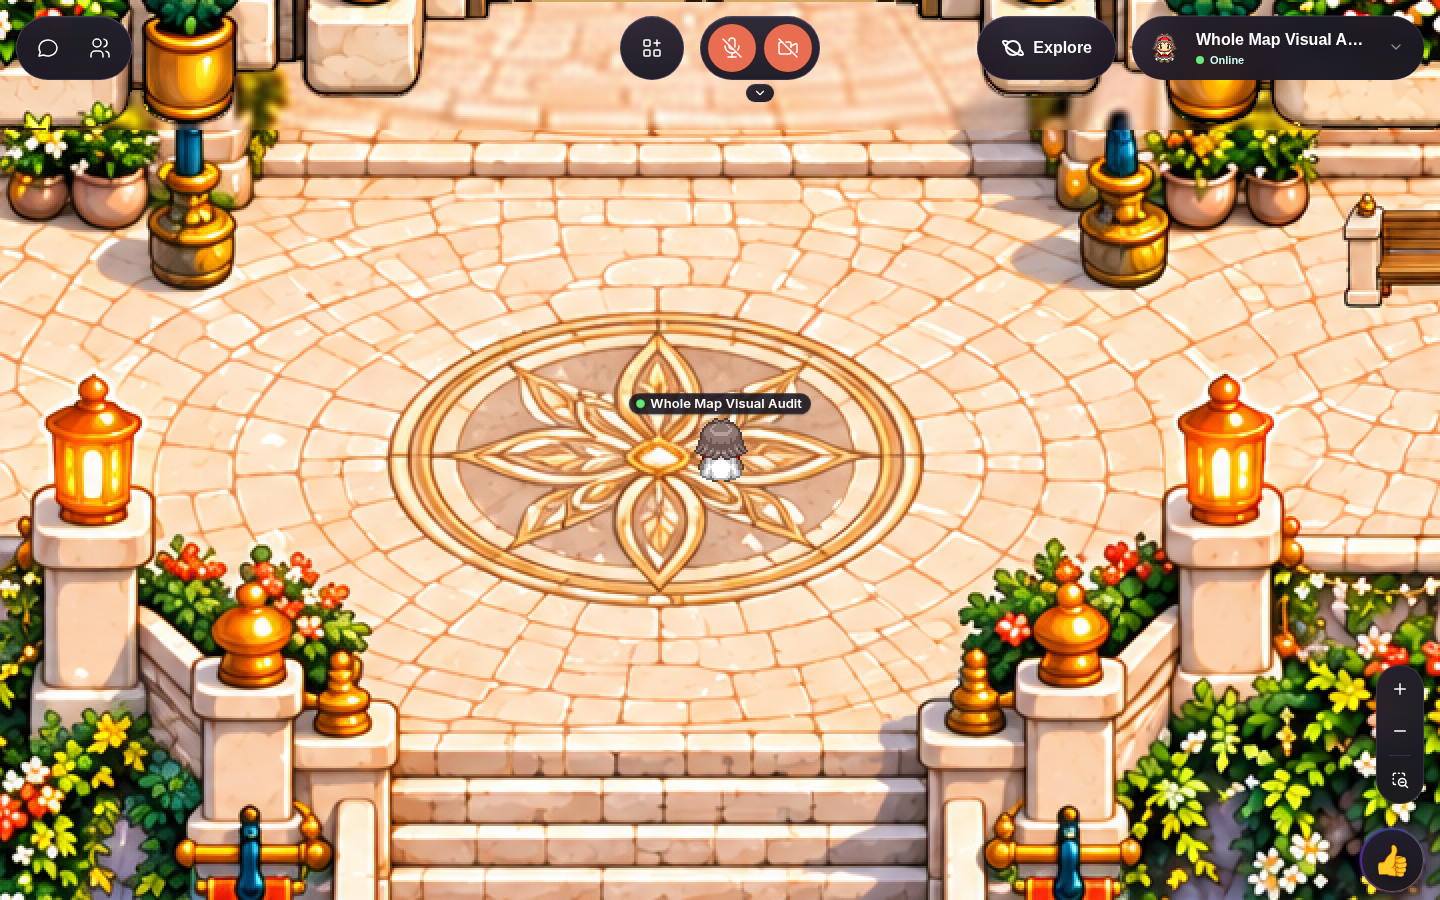
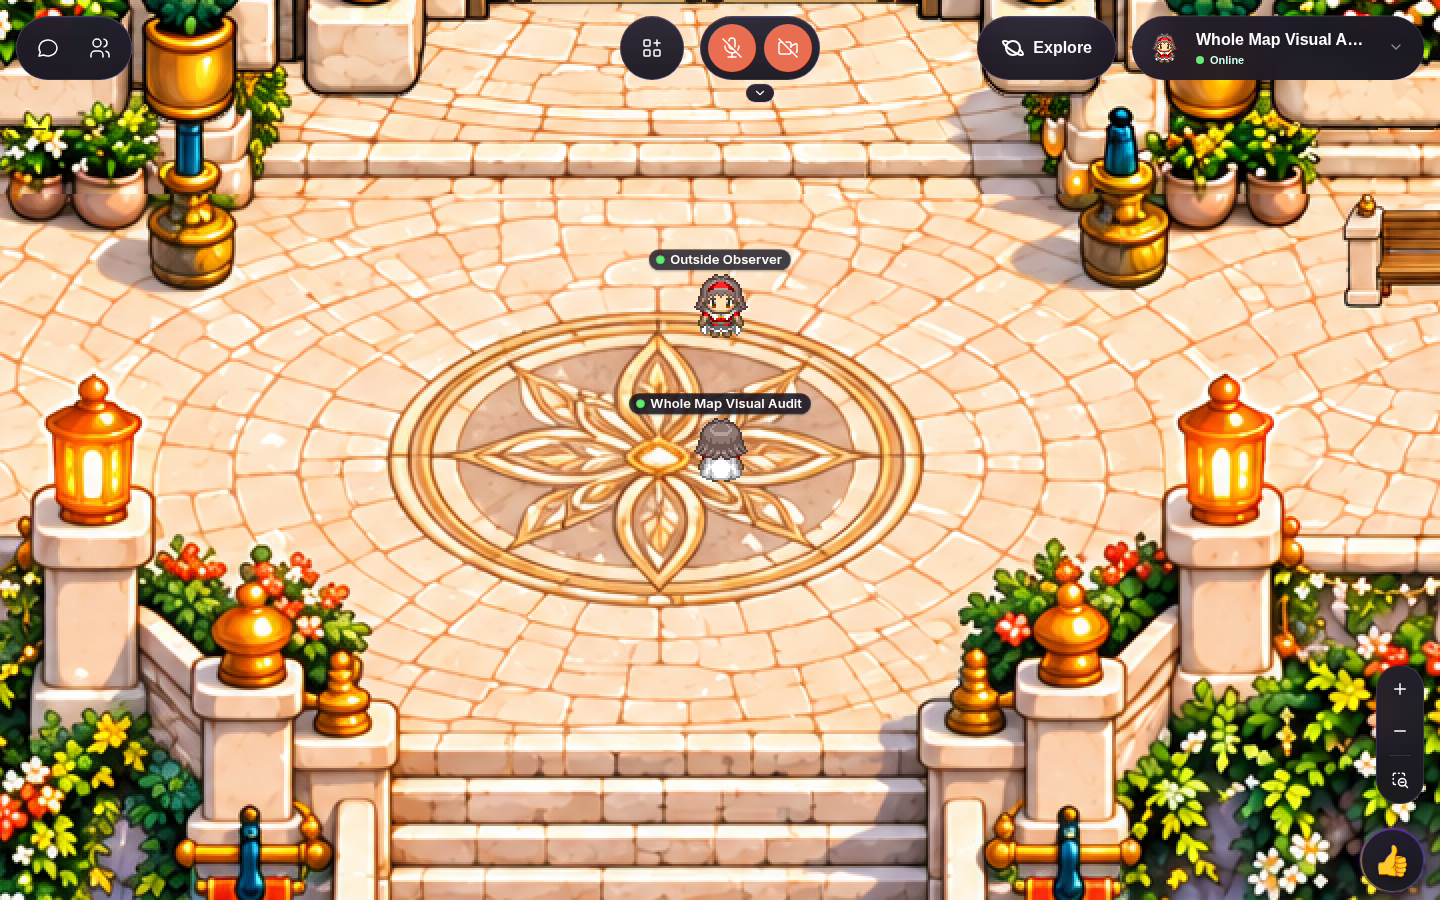
Record final whole-campus gameplay and occupant visibility review

Changed region(s): [[0.0, 0.0, 1.0, 0.2178], [0.4375, 0.2489, 0.5625, 0.3733]]

diff --git a/previews/bawes-sky-campus/source/native-cafe-trial/review.html b/previews/bawes-sky-campus/source/native-cafe-trial/review.html
@@ -1,1 +1,1 @@
-<!doctype html><meta charset="utf-8"><title>Native campus review</title><style>body{font:16px system-ui;background:#101a25;color:#e8eff5;max-width:1440px;margin:32px auto;padding:20px}img{max-width:100%;height:auto}section{margin:40px 0}a{color:#8bd3ff}.pair{display:grid;grid-template-columns:1fr 1fr;gap:12px}h1,h2{font-weight:600}</style><h1>Native outdoor campus candidate</h1><p>Isolated candidate; no deployment. Native 1:1 artwork across the outdoor campus; original interior and gate retained. Gameplay captures use camera zoom 1 and avatar scale 1. Final interaction review is recorded in the accompanying JSON.</p><p><a href="README.md">Details and limitations</a> · <a href="static-checks.json">Static checks</a> · <a href="whole-map/interaction-checks.json">Interaction checks</a></p><h2>Assembled map</h2><a href="gameplay-map-native.png"><img src="gameplay-map-overview.png"></a><p>Click for native-resolution export. Overview is downscaled for review only. Continuous original sky retained; main campus artwork restored at native resolution.</p><section><h2>Cafe</h2><div class="pair"><div>Before<img loading="lazy" src="../../review/whole-map-2026-10-20/cafe.png"></div><div>Candidate<img loading="lazy" src="whole-map/cafe.png"></div></div></section><section><h2>Lower Square</h2><div class="pair"><div>Before<img loading="lazy" src="../../review/whole-map-2026-10-20/lower-square.png"></div><div>Candidate<img loading="lazy" src="whole-map/lower-square.png"></div></div></section><section><h2>Portal Garden</h2><div class="pair"><div>Before<img loading="lazy" src="../../review/whole-map-2026-10-20/portal-garden.png"></div><div>Candidate<img loading="lazy" src="whole-map/portal-garden.png"></div></div></section><section><h2>Central Bridge</h2><div class="pair"><div>Before<img loading="lazy" src="../../review/whole-map-2026-10-20/central-bridge.png"></div><div>Candidate<img loading="lazy" src="whole-map/central-bridge.png"></div></div></section><section><h2>Front Plaza</h2><div class="pair"><div>Before<img loading="lazy" src="../../review/whole-map-2026-10-20/front-plaza.png"></div><div>Candidate<img loading="lazy" src="whole-map/front-plaza.png"></div></div></section><section><h2>West Bridge</h2><div class="pair"><div>Before<img loading="lazy" src="../../review/whole-map-2026-10-20/west-bridge.png"></div><div>Candidate<img loading="lazy" src="whole-map/west-bridge.png"></div></div></section><section><h2>Conservatory</h2><div class="pair"><div>Before<img loading="lazy" src="../../review/whole-map-2026-10-20/conservatory.png"></div><div>Candidate<img loading="lazy" src="whole-map/conservatory.png"></div></div></section><section><h2>East Bridge</h2><div class="pair"><div>Before<img loading="lazy" src="../../review/whole-map-2026-10-20/east-bridge.png"></div><div>Candidate<img loading="lazy" src="whole-map/east-bridge.png"></div></div></section><section><h2>Stage</h2><div class="pair"><div>Before<img loading="lazy" src="../../review/whole-map-2026-10-20/stage.png"></div><div>Candidate<img loading="lazy" src="whole-map/stage.png"></div></div></section><section><h2>Office</h2><div class="pair"><div>Before<img loading="lazy" src="../../review/whole-map-2026-10-20/office.png"></div><div>Candidate<img loading="lazy" src="whole-map/office.png"></div></div></section><h2>Interaction and occupant views</h2><section><h3>seat-71</h3><img loading="lazy" src="whole-map/seat-71.png"></section><section><h3>seat-57</h3><img loading="lazy" src="whole-map/seat-57.png"></section><section><h3>seat-63</h3><img loading="lazy" src="whole-map/seat-63.png"></section><section><h3>seat-64</h3><img loading="lazy" src="whole-map/seat-64.png"></section><section><h3>seat-65</h3><img loading="lazy" src="whole-map/seat-65.png"></section><section><h3>seat-66</h3><img loading="lazy" src="whole-map/seat-66.png"></section><section><h3>seat-19</h3><img loading="lazy" src="whole-map/seat-19.png"></section><section><h3>seat-50</h3><img loading="lazy" src="whole-map/seat-50.png"></section><section><h3>outside-visible-occupant</h3><img loading="lazy" src="whole-map/outside-visible-occupant.png"></section><section><h3>inside-front-lounge</h3><img loading="lazy" src="whole-map/inside-front-lounge.png"></section>
+<!doctype html><meta charset="utf-8"><title>Native campus review</title><style>body{font:16px system-ui;background:#101a25;color:#e8eff5;max-width:1440px;margin:32px auto;padding:20px}img{max-width:100%;height:auto}section{margin:40px 0}a{color:#8bd3ff}.pair{display:grid;grid-template-columns:1fr 1fr;gap:12px}h1,h2{font-weight:600}</style><h1>Native outdoor campus candidate</h1><p>Isolated candidate; no deployment. Native 1:1 artwork across the outdoor campus; original interior and gate retained. Gameplay captures use camera zoom 1 and avatar scale 1. Ten final regions reached; 32 selected interaction checks and 8 final bridge/gate/visibility checks passed. Original distant sky remains soft; no sitting animation or auto-facing was added.</p><p><a href="README.md">Details and limitations</a> · <a href="static-checks.json">Static checks</a> · <a href="whole-map/final-summary.json">Final validation summary</a> · <a href="whole-map/interaction-checks.json">Interaction checks</a></p><h2>Assembled map</h2><a href="gameplay-map-native.png"><img src="gameplay-map-overview.png"></a><p>Click for native-resolution export. Overview is downscaled for review only. Continuous original sky retained; main campus artwork restored at native resolution.</p><section><h2>Cafe</h2><div class="pair"><div>Before<img loading="lazy" src="../../review/whole-map-2026-10-20/cafe.png"></div><div>Candidate<img loading="lazy" src="whole-map/cafe.png"></div></div></section><section><h2>Lower Square</h2><div class="pair"><div>Before<img loading="lazy" src="../../review/whole-map-2026-10-20/lower-square.png"></div><div>Candidate<img loading="lazy" src="whole-map/lower-square.png"></div></div></section><section><h2>Portal Garden</h2><div class="pair"><div>Before<img loading="lazy" src="../../review/whole-map-2026-10-20/portal-garden.png"></div><div>Candidate<img loading="lazy" src="whole-map/portal-garden.png"></div></div></section><section><h2>Central Bridge</h2><div class="pair"><div>Before<img loading="lazy" src="../../review/whole-map-2026-10-20/central-bridge.png"></div><div>Candidate<img loading="lazy" src="whole-map/central-bridge.png"></div></div></section><section><h2>Front Plaza</h2><div class="pair"><div>Before<img loading="lazy" src="../../review/whole-map-2026-10-20/front-plaza.png"></div><div>Candidate<img loading="lazy" src="whole-map/front-plaza.png"></div></div></section><section><h2>West Bridge</h2><div class="pair"><div>Before<img loading="lazy" src="../../review/whole-map-2026-10-20/west-bridge.png"></div><div>Candidate<img loading="lazy" src="whole-map/west-bridge.png"></div></div></section><section><h2>Conservatory</h2><div class="pair"><div>Before<img loading="lazy" src="../../review/whole-map-2026-10-20/conservatory.png"></div><div>Candidate<img loading="lazy" src="whole-map/conservatory.png"></div></div></section><section><h2>East Bridge</h2><div class="pair"><div>Before<img loading="lazy" src="../../review/whole-map-2026-10-20/east-bridge.png"></div><div>Candidate<img loading="lazy" src="whole-map/east-bridge.png"></div></div></section><section><h2>Stage</h2><div class="pair"><div>Before<img loading="lazy" src="../../review/whole-map-2026-10-20/stage.png"></div><div>Candidate<img loading="lazy" src="whole-map/stage.png"></div></div></section><section><h2>Office</h2><div class="pair"><div>Before<img loading="lazy" src="../../review/whole-map-2026-10-20/office.png"></div><div>Candidate<img loading="lazy" src="whole-map/office.png"></div></div></section><h2>Interaction and occupant views</h2><section><h3>seat-71</h3><img loading="lazy" src="whole-map/seat-71.png"></section><section><h3>seat-57</h3><img loading="lazy" src="whole-map/seat-57.png"></section><section><h3>seat-63</h3><img loading="lazy" src="whole-map/seat-63.png"></section><section><h3>seat-64</h3><img loading="lazy" src="whole-map/seat-64.png"></section><section><h3>seat-65</h3><img loading="lazy" src="whole-map/seat-65.png"></section><section><h3>seat-66</h3><img loading="lazy" src="whole-map/seat-66.png"></section><section><h3>seat-19</h3><img loading="lazy" src="whole-map/seat-19.png"></section><section><h3>seat-50</h3><img loading="lazy" src="whole-map/seat-50.png"></section><section><h3>outside-visible-occupant</h3><img loading="lazy" src="whole-map/outside-visible-occupant.png"></section><section><h3>inside-front-lounge</h3><img loading="lazy" src="whole-map/inside-front-lounge.png"></section>

diff --git a/previews/bawes-sky-campus/source/native-cafe-trial/README.md b/previews/bawes-sky-campus/source/native-cafe-trial/README.md
@@ -24,4 +24,6 @@ Earlier café records are retained: `bar-corrected-checks.json` passed 18/18 aft
 
 Rebuild with `python build-candidate.py`, verify with `python verify-candidate.py`, and capture the assembled native map with `python export-candidate.py gameplay-map-native.png 1664 2048 4864 3712`. Overview images are downscaled for review only. Gameplay scripts use the local pinned Universe client and Chromium CDP on port 9222.
 
-Current review: assembled sky seams corrected; 32/32 interaction checks passed; final façade-strip/lamp-depth correction and refreshed captures under visual review. Do not describe this as user-approved or deployed.
+Current review: assembled sky seams corrected; ready for review: refreshed ten-region traversal completed; final 8/8 bridge, gate and two-client checks passed; corrected façade strip and occupant view visually inspected. See `whole-map/final-summary.json` for the tested candidate hash. Do not describe this as user-approved or deployed.
+
+The existing draft PR branch received the implementation milestone `efcfcc8`. GitHub GraphQL and REST metadata lookups returned Forbidden in this environment; branch pushes succeeded. No PR title/body update was attempted after those lookup failures.
